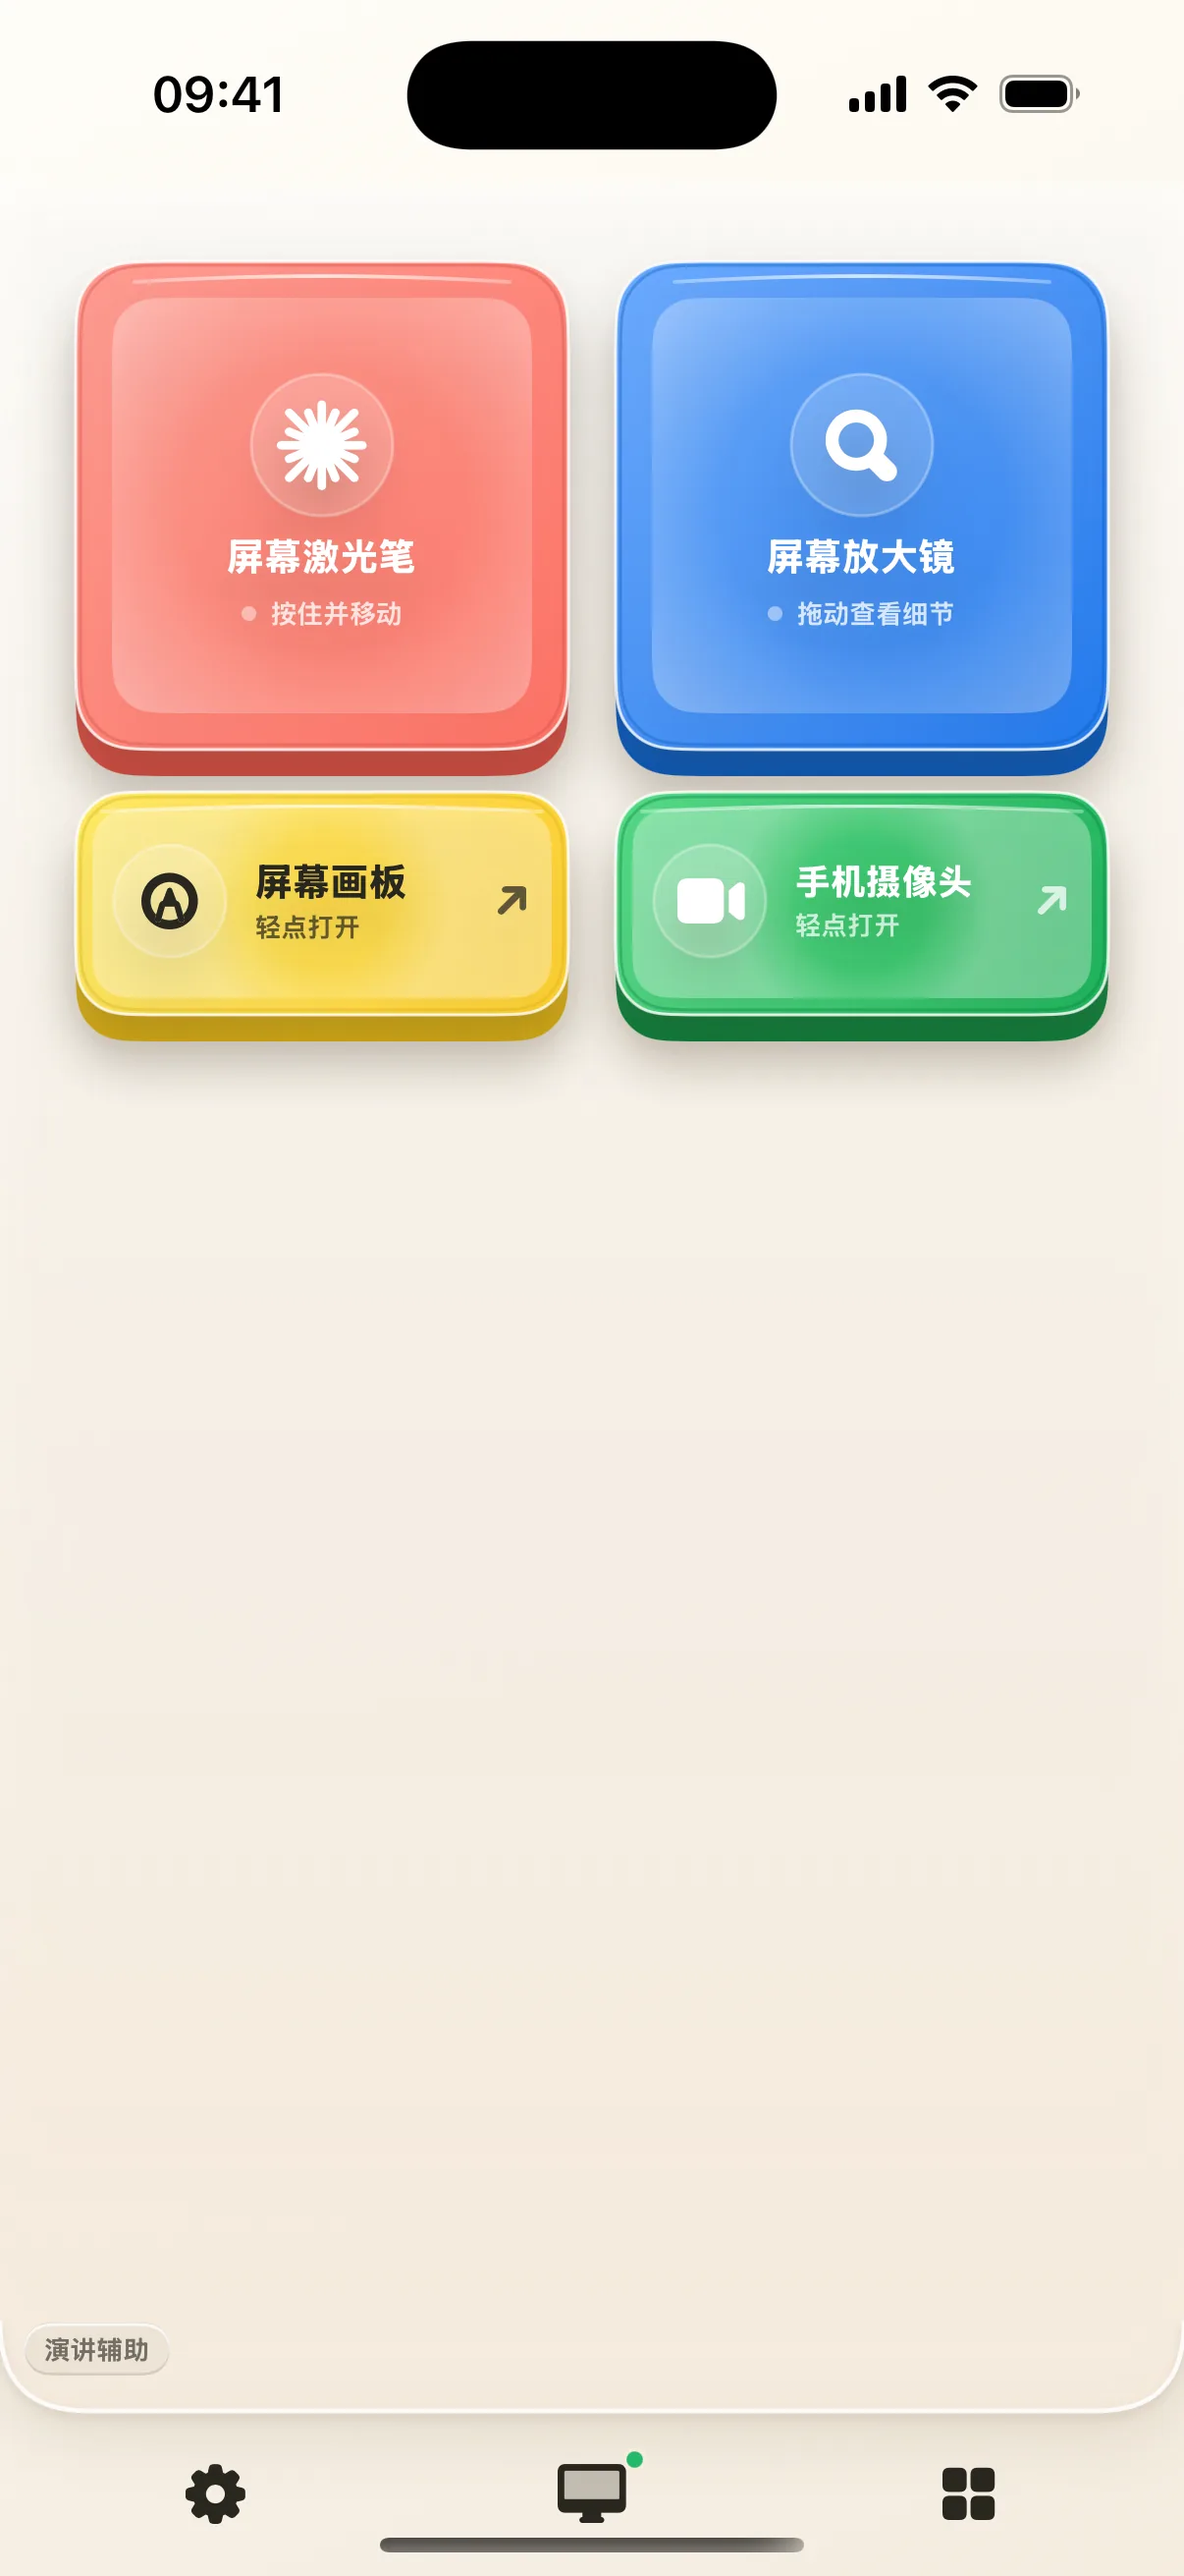
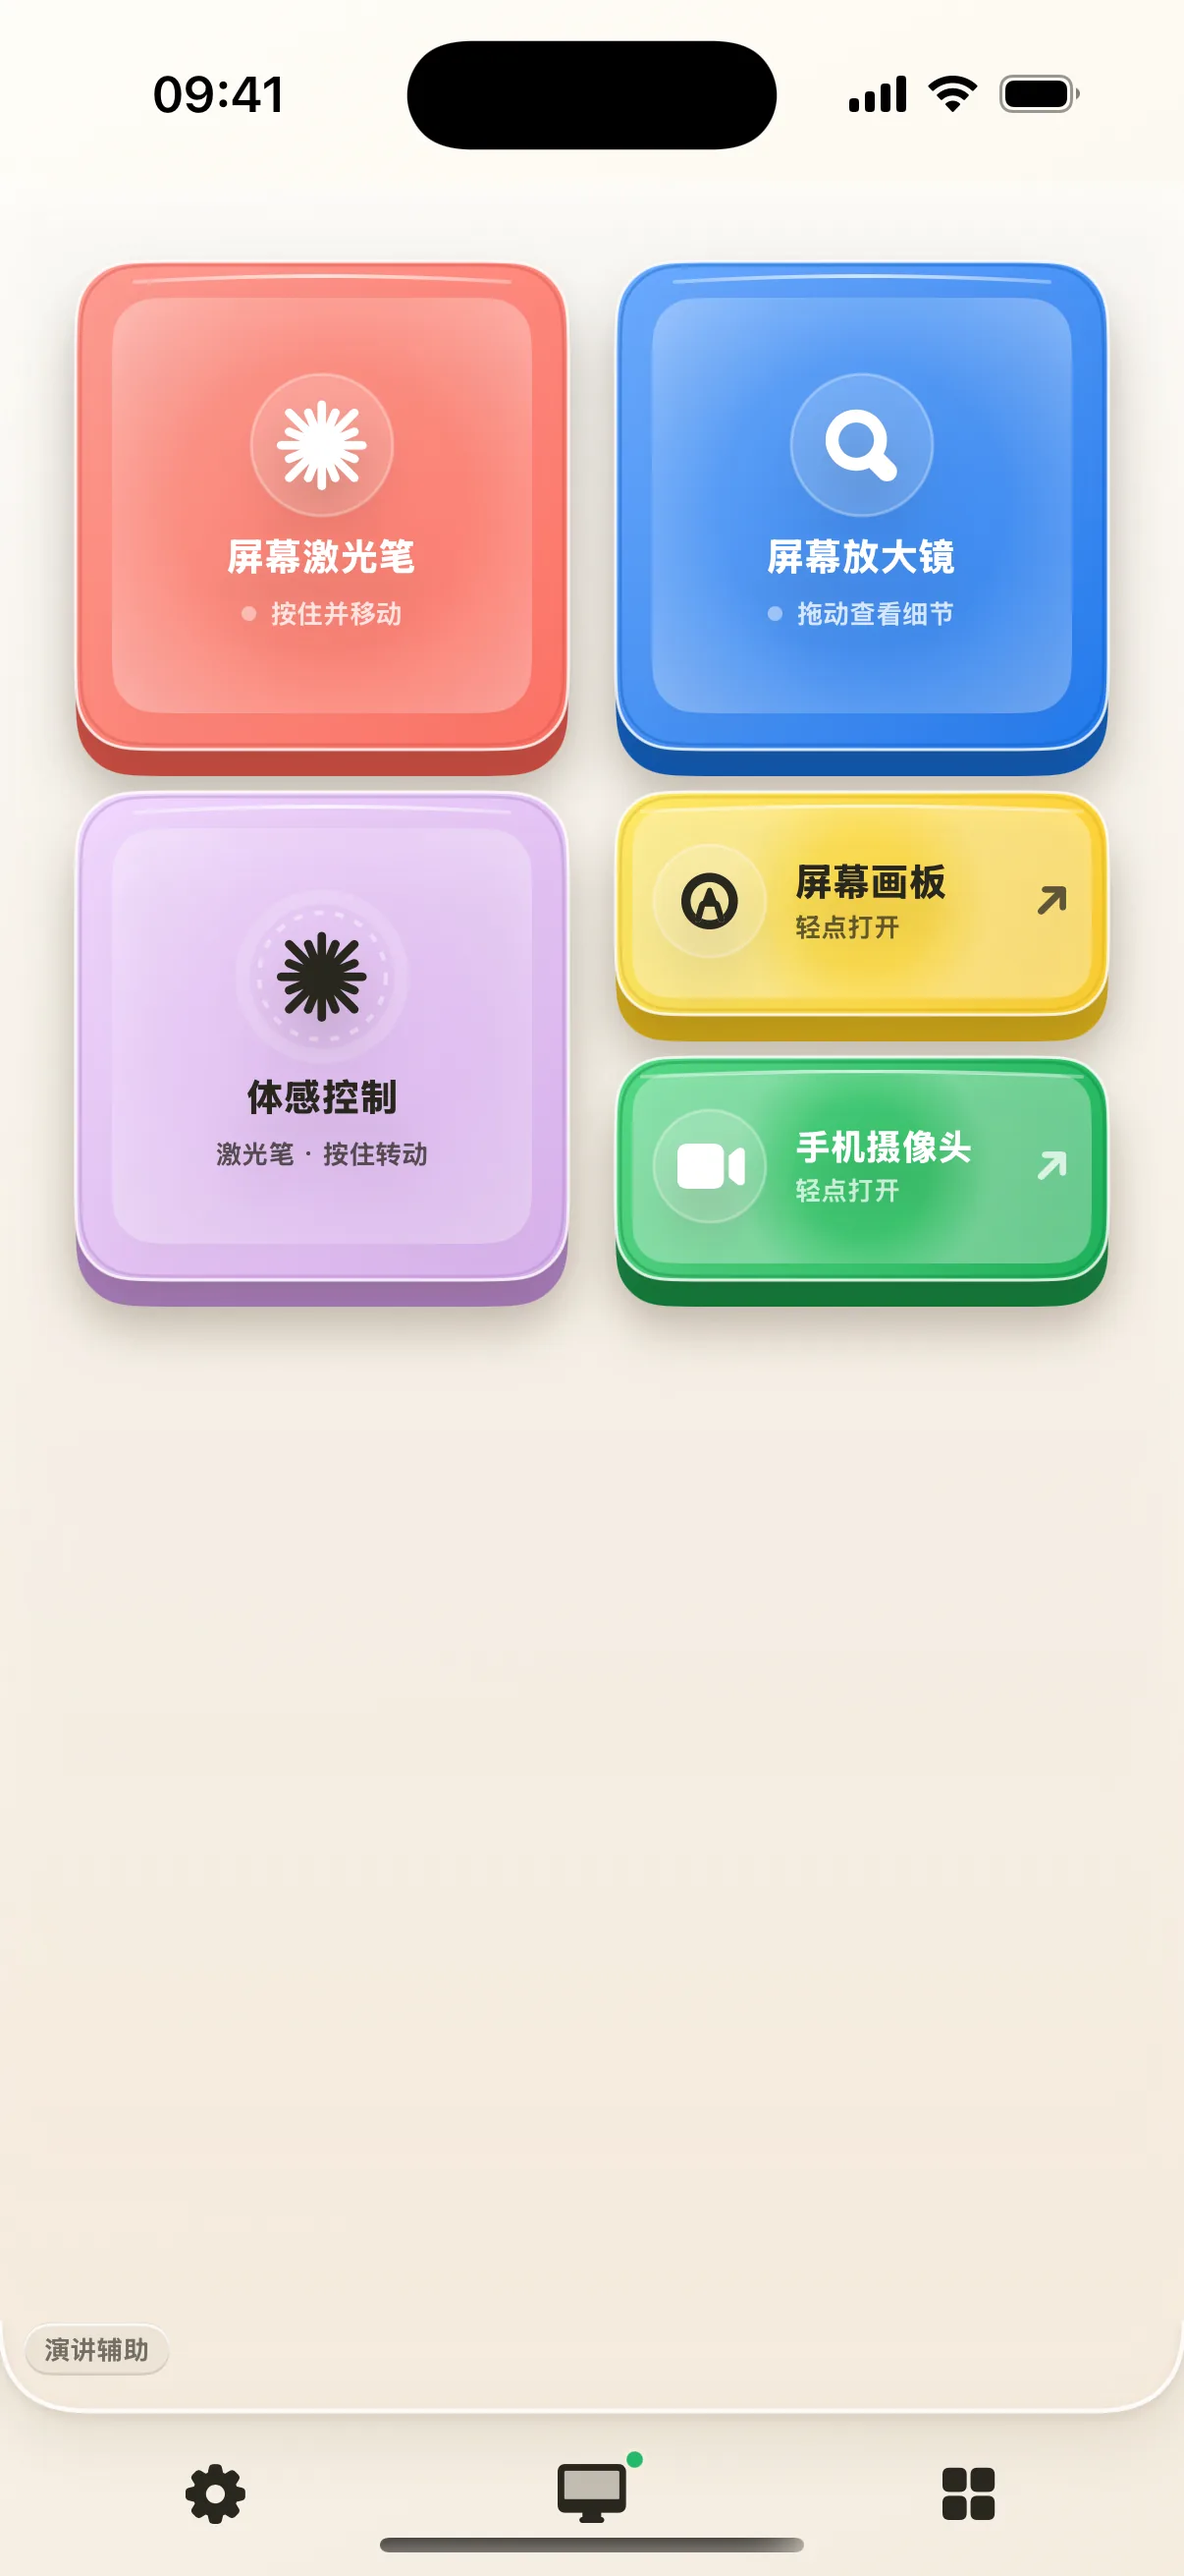
Add motion presentation controls and final screenshots

Changed region(s): [[0.0307, 0.3089, 0.9511, 0.5252]]

diff --git a/blog/presentation-tools.html b/blog/presentation-tools.html
@@ -4,12 +4,12 @@
   <meta charset="utf-8">
   <meta name="viewport" content="width=device-width, initial-scale=1">
   <meta name="theme-color" content="#fff1df">
-  <meta name="description" content="在奶猫妙控里使用激光笔、放大镜、画板和手机摄像头，让 Mac 演示更方便">
+  <meta name="description" content="在奶猫妙控里使用触控与体感激光笔、放大镜、画板和手机摄像头，让 Mac 演示更方便">
   <meta name="robots" content="index, follow, max-image-preview:large">
   <meta property="og:type" content="article">
   <meta property="og:site_name" content="奶猫妙控">
   <meta property="og:title" content="用手机辅助 Mac 演示｜奶猫妙控">
-  <meta property="og:description" content="用激光笔、放大镜、画板和手机摄像头辅助 PowerPoint 与 Keynote 演示">
+  <meta property="og:description" content="用触控与体感激光笔、放大镜、画板和手机摄像头辅助 PowerPoint 与 Keynote 演示">
   <meta property="og:image" content="https://cream-deck.vercel.app/assets/screens/control-presentation-assist.webp">
   <meta property="og:url" content="https://cream-deck.vercel.app/blog/presentation-tools">
   <meta property="article:published_time" content="2026-08-31">
@@ -25,7 +25,7 @@
     "@context": "https://schema.org",
     "@type": "BlogPosting",
     "headline": "用手机辅助 Mac 演示",
-    "description": "在奶猫妙控里使用激光笔、放大镜、画板和手机摄像头，让 Mac 演示更方便",
+    "description": "在奶猫妙控里使用触控与体感激光笔、放大镜、画板和手机摄像头，让 Mac 演示更方便",
     "datePublished": "2026-08-31",
     "dateModified": "2026-08-31",
     "author": { "@type": "Organization", "name": "VibeKeys" },
@@ -47,11 +47,11 @@
     <header class="article-header">
       <a href="../blog.html">演示工具</a>
       <h1>用手机辅助 Mac 演示</h1>
-      <p>激光笔、放大镜、画板和摄像头都在一块小键盘里</p>
+      <p>体感激光笔、放大镜、画板和摄像头都在一块小键盘里</p>
     </header>
 
     <figure class="article-cover article-cover-phone">
-      <img src="../assets/screens/control-presentation-assist.webp?v=20260831" alt="奶猫妙控演示辅助小键盘，包含激光笔、放大镜、画板和手机摄像头" width="1206" height="2622">
+      <img src="../assets/screens/control-presentation-assist.webp?v=20260831b" alt="奶猫妙控演示辅助小键盘，包含体感激光笔、放大镜、画板和手机摄像头" width="1206" height="2622">
     </figure>
 
     <article class="article-body">
@@ -62,6 +62,7 @@
       <p>按住激光笔并移动手指，Mac 屏幕上会出现一个醒目的光点</p>
       <p>它适合指向图表、按钮或一句需要大家注意的文字</p>
       <p>松开手指后，光点就会消失，不会留在画面上</p>
+      <p>如果更习惯拿着设备讲解，也可以按住体感控制，再转动设备移动光点</p>
 
       <h2>放大看不清的地方</h2>
       <p>有些表格和软件界面的字很小，观众坐远后很难看清</p>
@@ -70,7 +71,7 @@
 
       <h2>直接在屏幕上画</h2>
       <p>屏幕画板适合临时圈出重点，或者画一条简单的路线</p>
-      <p>画完可以清除，不需要先修改 PowerPoint 或 Keynote 文件</p>
+      <p>画错时可以撤销或重做，讲完后再清空，不需要先修改 PowerPoint 或 Keynote 文件</p>
 
       <h2>把自己放进演示画面</h2>
       <p>手机摄像头可以显示在 Mac 屏幕上</p>
@@ -79,7 +80,7 @@
 
       <h2>翻页和辅助工具分开用</h2>
       <p>普通演示小键盘负责翻页、黑屏、音量和退出播放</p>
-      <p>演示辅助小键盘负责激光笔、放大镜、画板和摄像头</p>
+      <p>演示辅助小键盘负责触控与体感激光笔、放大镜、画板和摄像头</p>
       <p>两块小键盘可以随时切换，需要什么就打开什么</p>
 
       <h2>开始前先试一次</h2>

diff --git a/index.html b/index.html
@@ -139,7 +139,7 @@
       <div class="layout-copy">
         <h2>看看不同软件的小键盘</h2>
         <div class="layout-tabs" role="tablist" aria-label="软件小键盘">
-          <button id="layout-tab-codex" class="layout-tab" type="button" role="tab" aria-selected="true" aria-controls="layout-panel" tabindex="0" data-image="assets/screens/control-codex.webp?v=20260831" data-name="Codex" data-description="Agent、额度、任务、终端、语音和发送" data-alt="奶猫妙控 Codex 控制台">
+          <button id="layout-tab-codex" class="layout-tab" type="button" role="tab" aria-selected="true" aria-controls="layout-panel" tabindex="0" data-image="assets/screens/control-codex.webp?v=20260831b" data-name="Codex" data-description="Agent、额度、模型、思考、语音和任务" data-alt="奶猫妙控 Codex 控制台">
             <img src="assets/software/codex.png" alt="" width="1024" height="1024"><span>Codex</span>
           </button>
           <button id="layout-tab-resolve" class="layout-tab" type="button" role="tab" aria-selected="false" aria-controls="layout-panel" tabindex="-1" data-image="assets/screens/control-resolve.webp?v=20260831" data-name="DaVinci Resolve" data-description="播放、修剪、标记和时间线" data-alt="奶猫妙控 DaVinci Resolve 控制台">
@@ -166,8 +166,8 @@
         </div>
       </div>
       <figure class="layout-preview" id="layout-panel" role="tabpanel" aria-labelledby="layout-tab-codex" tabindex="0">
-        <img data-layout-image src="assets/screens/control-codex.webp?v=20260831" alt="奶猫妙控 Codex 控制台" width="1206" height="2622" loading="lazy">
-        <figcaption><strong data-layout-name>Codex</strong><span data-layout-description>Agent、额度、任务、终端、语音和发送</span></figcaption>
+        <img data-layout-image src="assets/screens/control-codex.webp?v=20260831b" alt="奶猫妙控 Codex 控制台" width="1206" height="2622" loading="lazy">
+        <figcaption><strong data-layout-name>Codex</strong><span data-layout-description>Agent、额度、模型、思考、语音和任务</span></figcaption>
       </figure>
     </section>
 
@@ -345,7 +345,7 @@
         <article class="is-planned"><span>外观 · 持续开放</span><h3>主题背景</h3><p>为控制台更换配色与背景</p></article>
         <article><span>空间</span><h3>多桌面</h3><p>一个布局方案容纳多页操作</p></article>
         <article><span>游戏</span><h3>游戏模式</h3><p>手柄、全屏串流与 Mac 音频</p></article>
-        <article><span>演示</span><h3>演示工具</h3><p>激光笔、放大镜、画板和摄像头</p></article>
+        <article><span>演示</span><h3>演示工具</h3><p>体感激光笔、放大镜、画板和摄像头</p></article>
         <article><span>状态</span><h3>灵动岛与通知</h3><p>在系统界面跟进任务与播放状态</p></article>
         <article><span>文件</span><h3>发送附件</h3><p>把照片和文件与文字一起送到 Mac</p></article>
         <article class="is-planned"><span>同步 · 持续开放</span><h3>iCloud 同步</h3><p>在你的 Apple 设备间同步布局与设置</p></article>

diff --git a/blog.html b/blog.html
@@ -51,8 +51,8 @@
     </section>
     <section class="post-feed" aria-label="博客文章">
       <a class="post-card" href="blog/presentation-tools.html">
-        <figure class="post-card-phone"><img src="assets/screens/control-presentation-assist.webp?v=20260831" alt="奶猫妙控演示辅助小键盘，包含激光笔、放大镜、画板和手机摄像头" width="1206" height="2622"></figure>
-        <div><p class="post-category">演示工具</p><h2>用手机辅助 Mac 演示</h2><p>指出重点，放大细节，直接画图，也能把手机摄像头放到 Mac 上</p><span>继续阅读</span></div>
+        <figure class="post-card-phone"><img src="assets/screens/control-presentation-assist.webp?v=20260831b" alt="奶猫妙控演示辅助小键盘，包含体感激光笔、放大镜、画板和手机摄像头" width="1206" height="2622"></figure>
+        <div><p class="post-category">演示工具</p><h2>用手机辅助 Mac 演示</h2><p>体感指出重点，放大细节，直接画图，也能把手机摄像头放到 Mac 上</p><span>继续阅读</span></div>
       </a>
       <a class="post-card" href="blog/remote-control-mac.html">
         <figure class="post-card-phone"><img src="assets/screens/control-studio.webp?v=20260831" alt="奶猫妙控显示 Mac 实时画面、触控板和滚动控件" width="1206" height="2622"></figure>

diff --git a/updates.html b/updates.html
@@ -49,8 +49,9 @@
         <div class="release-columns">
           <section><h3>新功能</h3><ul>
             <li>新增 Pro 购买与恢复购买</li>
-            <li>新增激光笔、放大镜、画板和手机摄像头</li>
-            <li>Codex 小键盘新增额度、任务、终端、审查和技能入口</li>
+            <li>新增触控与体感激光笔、放大镜、画板和手机摄像头</li>
+            <li>画板支持撤销和重做</li>
+            <li>Codex 小键盘新增额度、模型与思考深度旋钮</li>
             <li>文本键盘支持搜索历史记录和发送附件</li>
             <li>Mac 端新增设备管理与演示设置</li>
           </ul></section>
